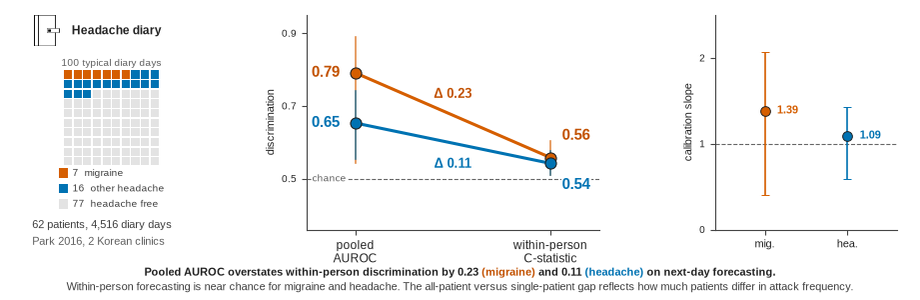
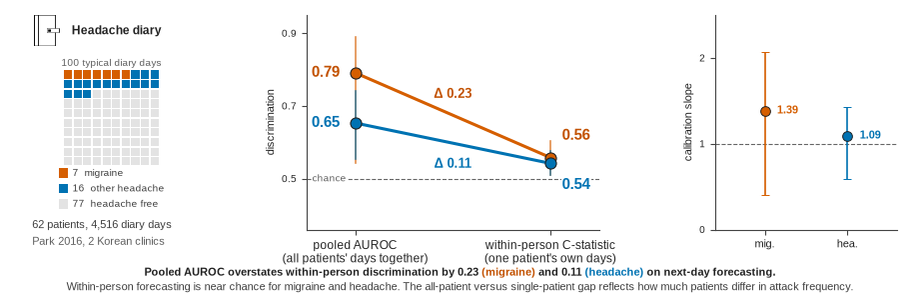
axlab

Changed region(s): [[0.5174, 0.78, 0.6696, 0.9], [0.3043, 0.78, 0.487, 0.9]]

diff --git a/docs/methodAndResults_diagramCreatorScripts/graphical_abstract.py b/docs/methodAndResults_diagramCreatorScripts/graphical_abstract.py
@@ -194,7 +194,9 @@ def _draw_slopegraph(ax) -> None:
     ax.set_xlim(-0.25, 1.25)
     ax.set_ylim(0.36, 0.95)
     ax.set_xticks([0, 1])
-    ax.set_xticklabels(["pooled\nAUROC", "within-person\nC-statistic"], fontsize=8.5)
+    ax.set_xticklabels(["pooled AUROC\n(all patients' days together)",
+                        "within-person C-statistic\n(one patient's own days)"],
+                       fontsize=8.5)
     ax.set_yticks([0.5, 0.7, 0.9])
     ax.tick_params(axis="y", labelsize=7)
     ax.set_ylabel("discrimination", fontsize=8)
